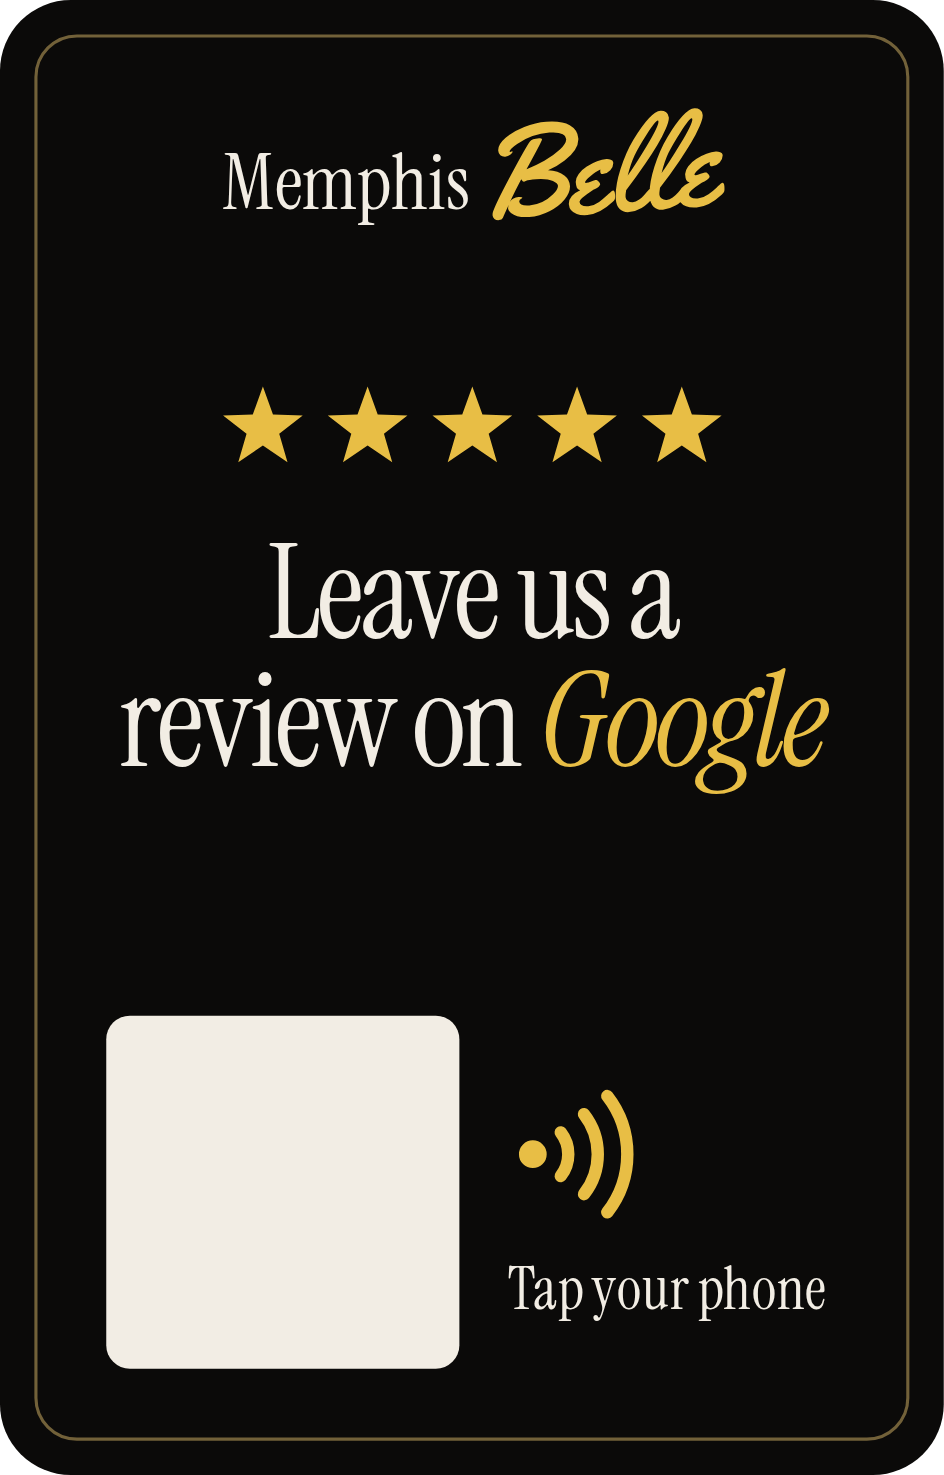
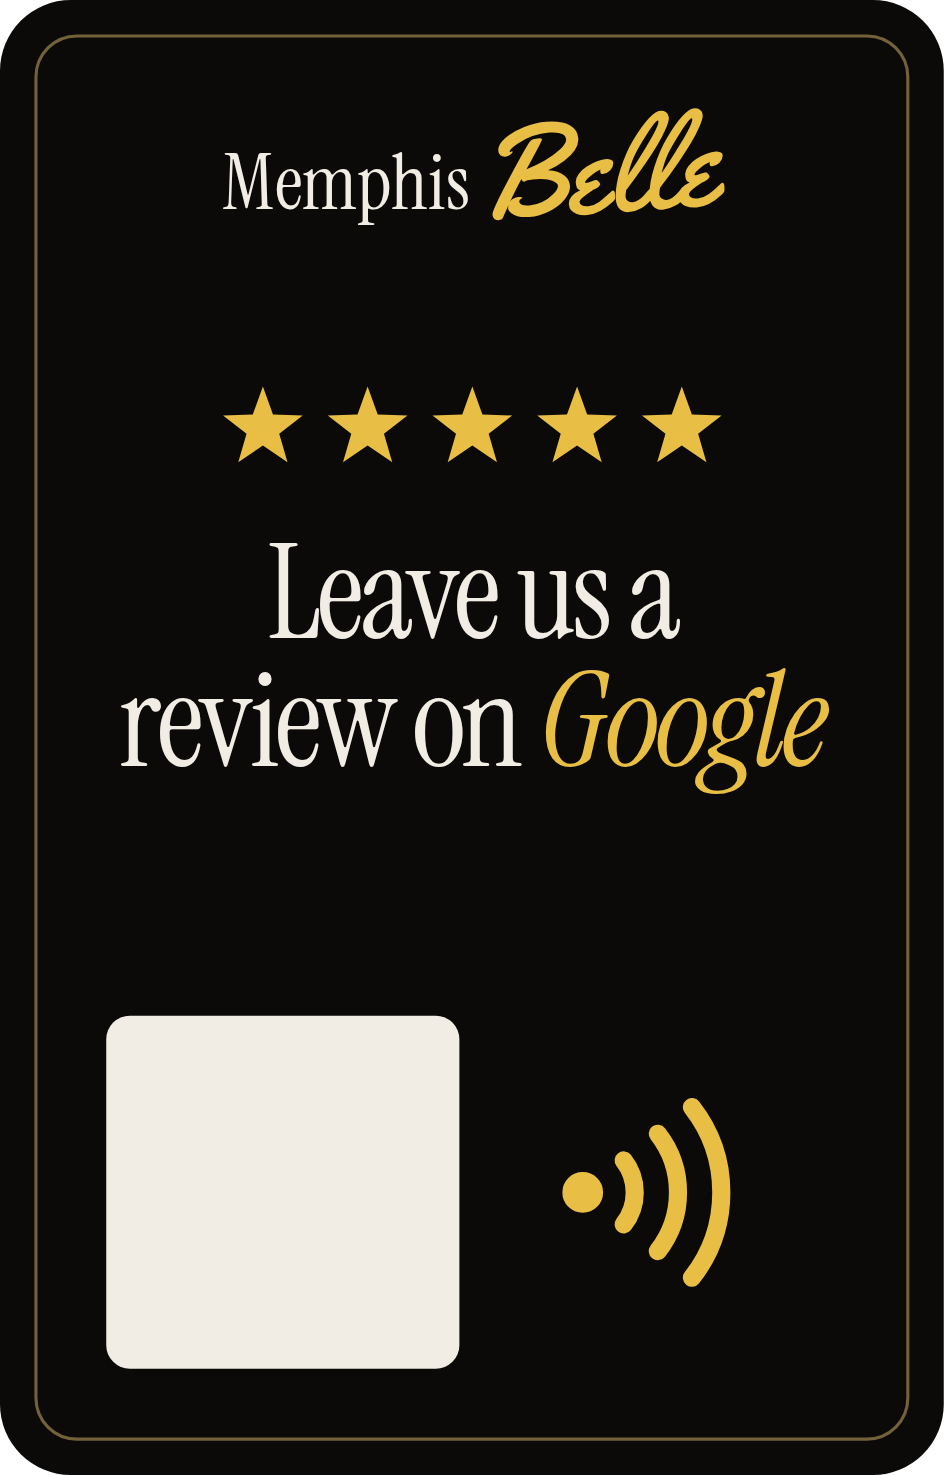
Tarjeta de reseña: sin 'Acerca tu móvil', NFC centrado
Claude-Session: https://claude.ai/code/session_015FWVJHTK1DFuU4oBGvgKEP

Changed region(s): [[0.553, 0.7485, 0.8602, 0.9044]]

diff --git a/tarjetas/tarjeta-resena-es.html b/tarjetas/tarjeta-resena-es.html
@@ -21,9 +21,8 @@ h1 { font: 400 11.2mm/.98 "Instrument Serif", serif; letter-spacing: -.025em; }
 h1 em { font-style: italic; color: #E8BE45; }
 .acciones { margin-top: auto; display: grid; grid-template-columns: auto 1fr; align-items: center; gap: 4mm; width: 100%; padding: 0 2mm; }
 .hueco { width: 30mm; height: 30mm; background: #F2EDE4; border-radius: 2mm; }
-.tocar { display: grid; justify-items: start; gap: 1.6mm; }
-.nfc { width: 15mm; height: 15mm; fill: #E8BE45; stroke: #E8BE45; }
-.tocar strong { font: 400 5mm/1 "Instrument Serif", serif; }
+.tocar { display: grid; place-items: center; }
+.nfc { width: 22mm; height: 22mm; fill: #E8BE45; stroke: #E8BE45; }
 </style>
 <body>
 <div class="tarjeta">
@@ -34,7 +33,7 @@ h1 em { font-style: italic; color: #E8BE45; }
   </div>
   <div class="acciones">
     <div class="hueco" role="img" aria-label="Espacio para la pegatina del QR"></div>
-    <div class="tocar"><svg class="nfc" viewBox="0 0 60 60" aria-hidden="true"><circle cx="9" cy="30" r="4.2"/><path d="M18.46 22.61 A12 12 0 0 1 18.46 37.39" fill="none" stroke-width="4.2" stroke-linecap="round"/><path d="M26.34 16.46 A22 22 0 0 1 26.34 43.54" fill="none" stroke-width="4.2" stroke-linecap="round"/><path d="M34.22 10.30 A32 32 0 0 1 34.22 49.70" fill="none" stroke-width="4.2" stroke-linecap="round"/></svg><strong>Acerca tu móvil</strong></div>
+    <div class="tocar"><svg class="nfc" viewBox="0 0 60 60" aria-hidden="true"><circle cx="9" cy="30" r="4.2"/><path d="M18.46 22.61 A12 12 0 0 1 18.46 37.39" fill="none" stroke-width="4.2" stroke-linecap="round"/><path d="M26.34 16.46 A22 22 0 0 1 26.34 43.54" fill="none" stroke-width="4.2" stroke-linecap="round"/><path d="M34.22 10.30 A32 32 0 0 1 34.22 49.70" fill="none" stroke-width="4.2" stroke-linecap="round"/></svg></div>
   </div>
 </div>
 </body></html>

diff --git a/tarjetas/tarjeta-resena-en.html b/tarjetas/tarjeta-resena-en.html
@@ -21,9 +21,8 @@ h1 { font: 400 11.2mm/.98 "Instrument Serif", serif; letter-spacing: -.025em; }
 h1 em { font-style: italic; color: #E8BE45; }
 .acciones { margin-top: auto; display: grid; grid-template-columns: auto 1fr; align-items: center; gap: 4mm; width: 100%; padding: 0 2mm; }
 .hueco { width: 30mm; height: 30mm; background: #F2EDE4; border-radius: 2mm; }
-.tocar { display: grid; justify-items: start; gap: 1.6mm; }
-.nfc { width: 15mm; height: 15mm; fill: #E8BE45; stroke: #E8BE45; }
-.tocar strong { font: 400 5mm/1 "Instrument Serif", serif; }
+.tocar { display: grid; place-items: center; }
+.nfc { width: 22mm; height: 22mm; fill: #E8BE45; stroke: #E8BE45; }
 </style>
 <body>
 <div class="tarjeta">
@@ -34,7 +33,7 @@ h1 em { font-style: italic; color: #E8BE45; }
   </div>
   <div class="acciones">
     <div class="hueco" role="img" aria-label="Espacio para la pegatina del QR"></div>
-    <div class="tocar"><svg class="nfc" viewBox="0 0 60 60" aria-hidden="true"><circle cx="9" cy="30" r="4.2"/><path d="M18.46 22.61 A12 12 0 0 1 18.46 37.39" fill="none" stroke-width="4.2" stroke-linecap="round"/><path d="M26.34 16.46 A22 22 0 0 1 26.34 43.54" fill="none" stroke-width="4.2" stroke-linecap="round"/><path d="M34.22 10.30 A32 32 0 0 1 34.22 49.70" fill="none" stroke-width="4.2" stroke-linecap="round"/></svg><strong>Tap your phone</strong></div>
+    <div class="tocar"><svg class="nfc" viewBox="0 0 60 60" aria-hidden="true"><circle cx="9" cy="30" r="4.2"/><path d="M18.46 22.61 A12 12 0 0 1 18.46 37.39" fill="none" stroke-width="4.2" stroke-linecap="round"/><path d="M26.34 16.46 A22 22 0 0 1 26.34 43.54" fill="none" stroke-width="4.2" stroke-linecap="round"/><path d="M34.22 10.30 A32 32 0 0 1 34.22 49.70" fill="none" stroke-width="4.2" stroke-linecap="round"/></svg></div>
   </div>
 </div>
 </body></html>
